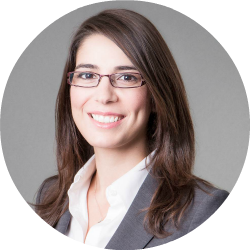
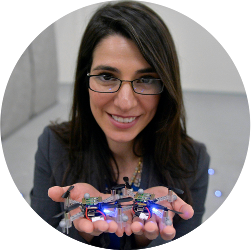
update group page

diff --git a/group.html b/group.html
@@ -90,7 +90,7 @@
 
             <div class="col-md-4 text-center">
                 <div class="thumbnail">
-                    <img class="img-responsive" src="images/nora_hanashiro.JPG" alt="">
+                    <img class="img-responsive" src="images/nora.png" alt="">
                     <div class="caption">
                         <h3>Prof. Nora Ayanian<br>
                             <small>Director</small>
@@ -156,16 +156,14 @@
                     </div>
                 </div>
             </div>
-            <!--
             <div class="col-md-4 text-center">
                 <div class="thumbnail">
-                    <img class="img-responsive" src="" alt="">
+                    <img class="img-responsive" src="images/mark.png" alt="">
                     <div class="caption">
                         <h3>Mark Debord<br>
                             <small>M.S. Student</small>
                         </h3>
                         <ul class="list-inline">
-                            <li><a href="https://github.com/jireren/"><i class="fa fa-2x fa-github"></i></a></li>
                         </ul>
                         <p>
                         &nbsp;
@@ -173,7 +171,6 @@
                     </div>
                 </div>
             </div>
-        -->
             <div class="col-md-4 text-center">
                 <div class="thumbnail">
                     <img class="img-responsive" src="images/baskin.png" alt="">
@@ -183,23 +180,6 @@
                         </h3>
                         <ul class="list-inline">
                             <li><a href="https://www.linkedin.com/in/baskinburak/"><i class="fa fa-2x fa-linkedin-square"></i></a></li>
-                        </ul>
-                        <p>
-                        &nbsp;
-                        </p>
-                    </div>
-                </div>
-            </div>
-            <div class="col-md-4 text-center">
-                <div class="thumbnail">
-                    <img class="img-responsive" src="images/sarthak.png" alt="">
-                    <div class="caption">
-                        <h3>Sarthak Arora<br>
-                            <small>M.S. Student</small>
-                        </h3>
-                        <ul class="list-inline">
-                            <li><a href="https://www.linkedin.com/in/arorasarthak"><i class="fa fa-2x fa-linkedin-square"></i></a></li>
-                            <li><a href="https://github.com/sarthak10193"><i class="fa fa-2x fa-github"></i></a></li>
                         </ul>
                         <p>
                         &nbsp;
@@ -234,6 +214,9 @@
             <div class="col-lg-12">
                 <h2>Former Lab Members</h2><br>
                     <ul>
+                        <li>Sarthak Arora, Master's Student Researcher<br>
+                            <a href="https://www.linkedin.com/in/arorasarthak"><i class="fa fa-2x fa-linkedin-square"></i></a>
+                        </li>
                         <li>Chotiwat Chawannakul, Master's Student Researcher<br>
                             <a href="https://www.linkedin.com/in/chotiwat-chawannakul-31527b124"><i class="fa fa-2x fa-linkedin-square"></i></a>
                         </li>
